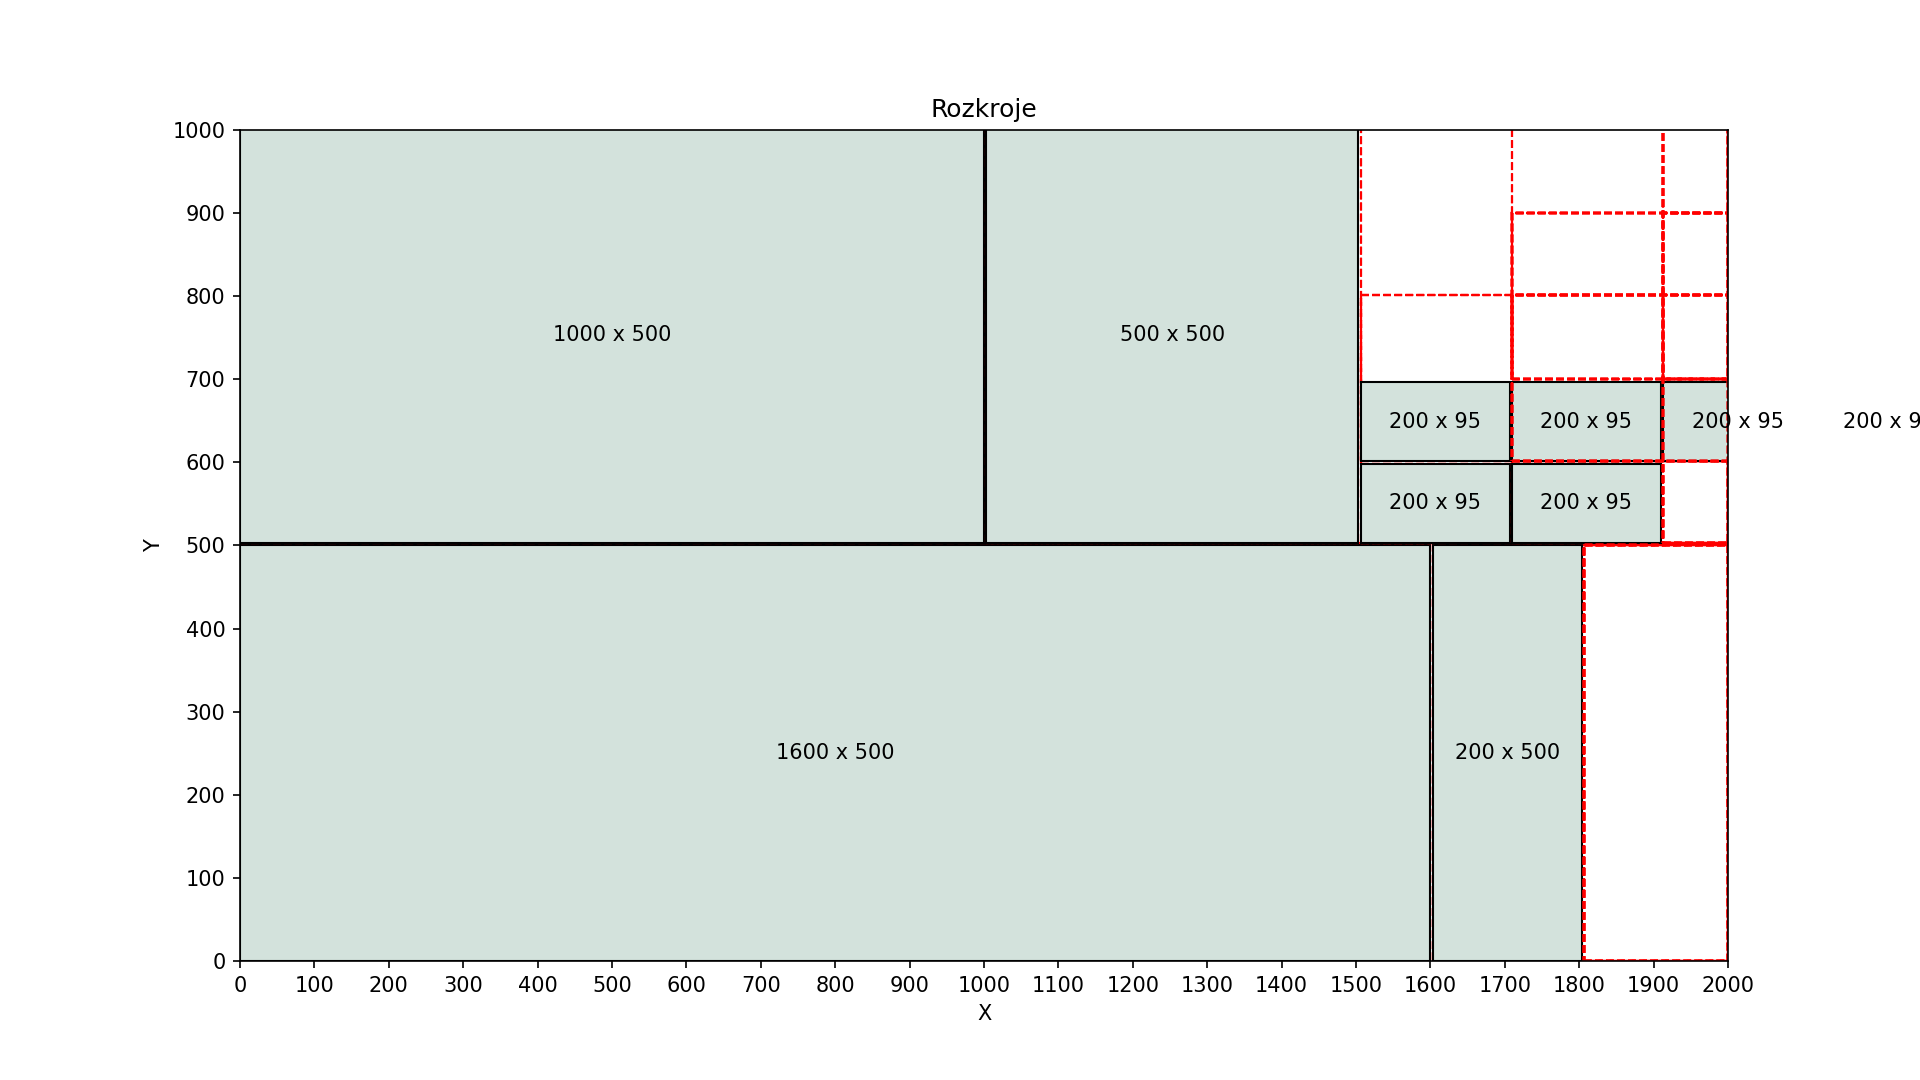
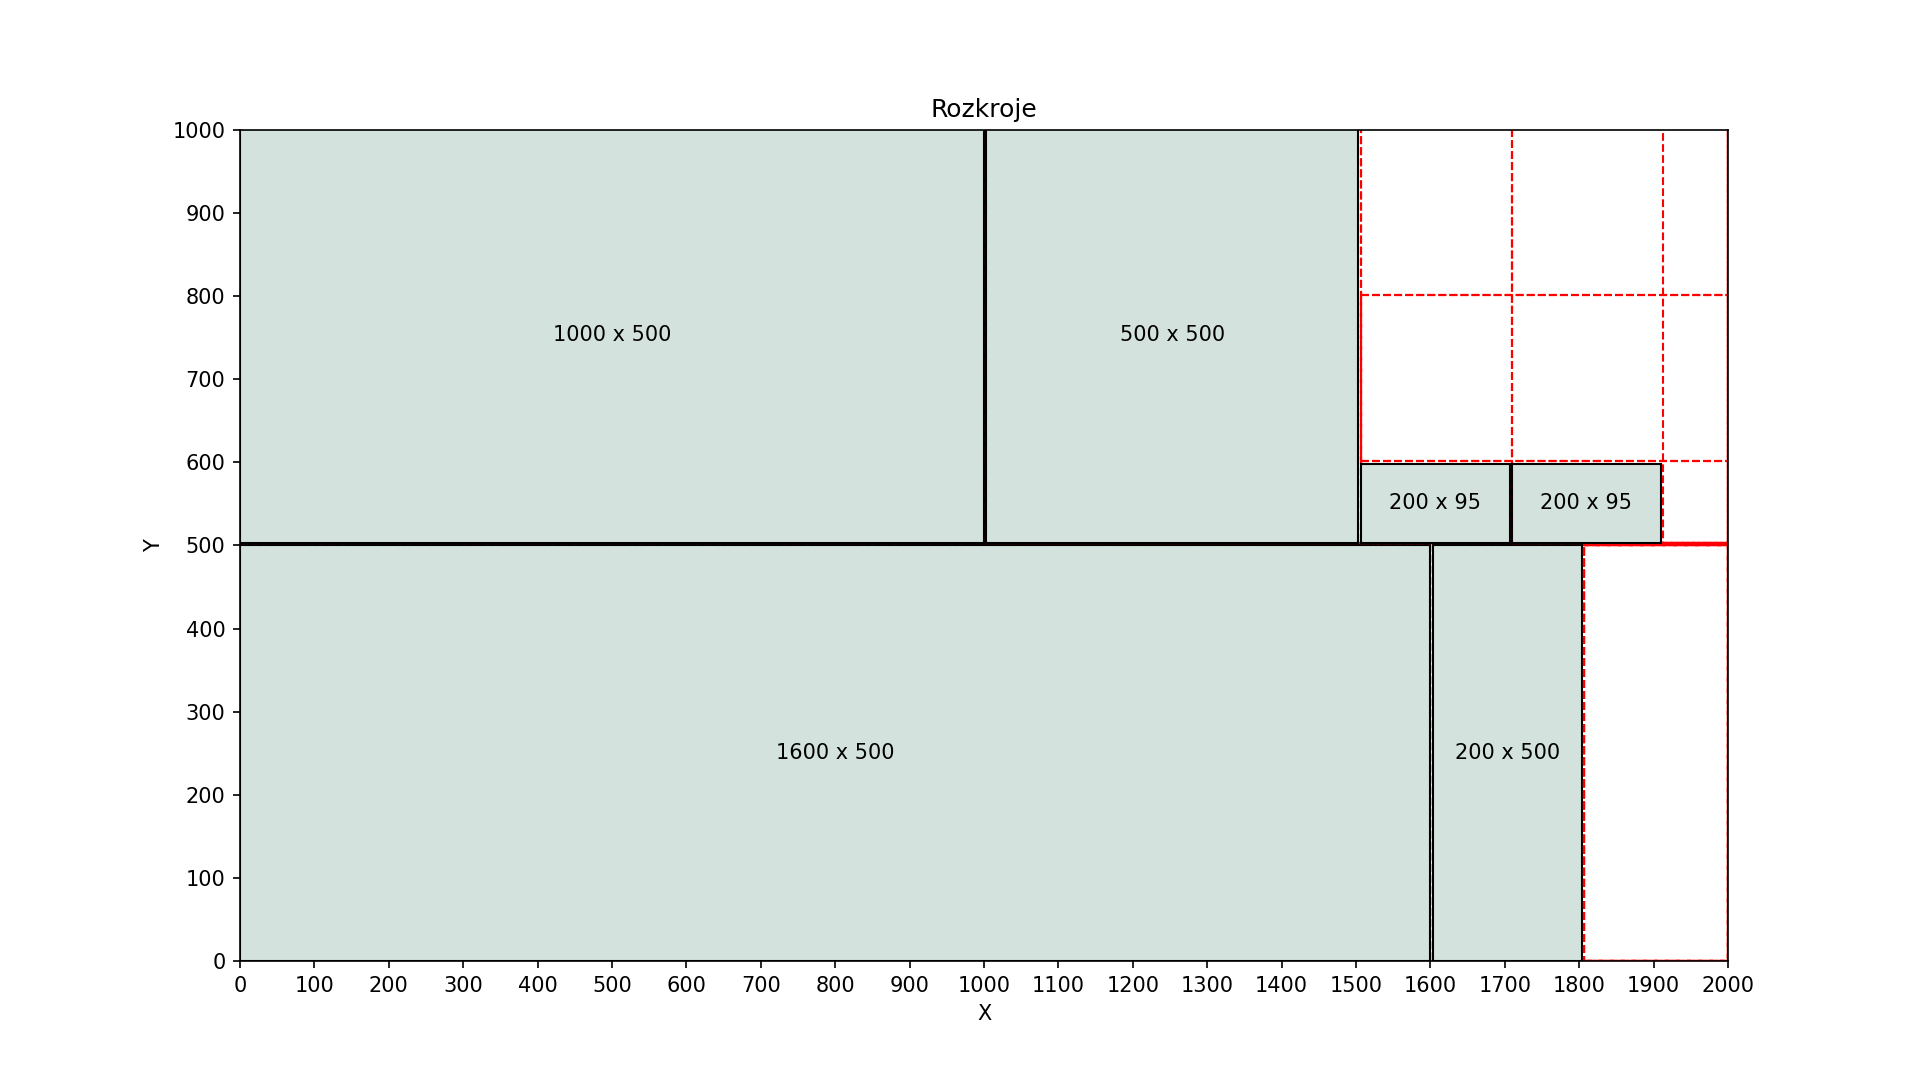
leaving a sign

Changed region(s): [[0.6875, 0.3361, 0.9375, 0.4278], [0.9688, 0.3667, 1.0, 0.3972], [0.8438, 0.1833, 0.875, 0.2139]]

diff --git a/AutoWood_Backend/product/cut_optimizer/moje.py b/AutoWood_Backend/product/cut_optimizer/moje.py
@@ -70,11 +70,14 @@ class VirtualRow:
             #self. X ?
             if format_height < self.Y:
 
-                    
-                nr_height = format_width
                 remaining_height = self.Y - format_height
                 remaining_width = X- self.X
                 
+                # wyszukiwanie nowej pozycji virtual row jest bez sensu
+                # jak znaleźć początek wolnego rzedu? 
+                # jeżeli kończy mu się miejsce w rzędzie musi znaleźć je w wolnej przestrzeni
+                # ustawienia Y w tej linijce jest prymitywne: ( current_y_position += current_vr.Y + SAW  # Update Y position for new row )
+                # to trzeba szukać w zupełnie inny sposób, zadanie na weekend 
 
                 new_row = VirtualRow((remaining_width), format_width, self.start_x - format_width - SAW , self.start_y + format_height + SAW)
                 
@@ -91,21 +94,6 @@ class VirtualRow:
 
     def __str__(self):
         return f"VirtualRow X: {self.X}, Y: {self.Y}, start_x: {self.start_x}, start_y: {self.start_y}, formats: {self.formats}"
-    
-    def check_collision(self, new_x, new_y, new_width, new_height):
-        for fmt in self.formats:
-            fmt_x, fmt_y = fmt[2], self.start_y  # format start_x and parent row's start_y
-            fmt_width, fmt_height = fmt[0], fmt[1]
-
-            # Check if the new rectangle overlaps with any existing rectangle
-            if not (
-                new_x + new_width <= fmt_x or  # New is left of existing
-                new_x >= fmt_x + fmt_width or  # New is right of existing
-                new_y + new_height <= fmt_y or  # New is above existing
-                new_y >= fmt_y + fmt_height    # New is below existing
-            ):
-                return True  # Collision detected
-        return False  # No collision
                   
 
 def generate_board(X,Y):
